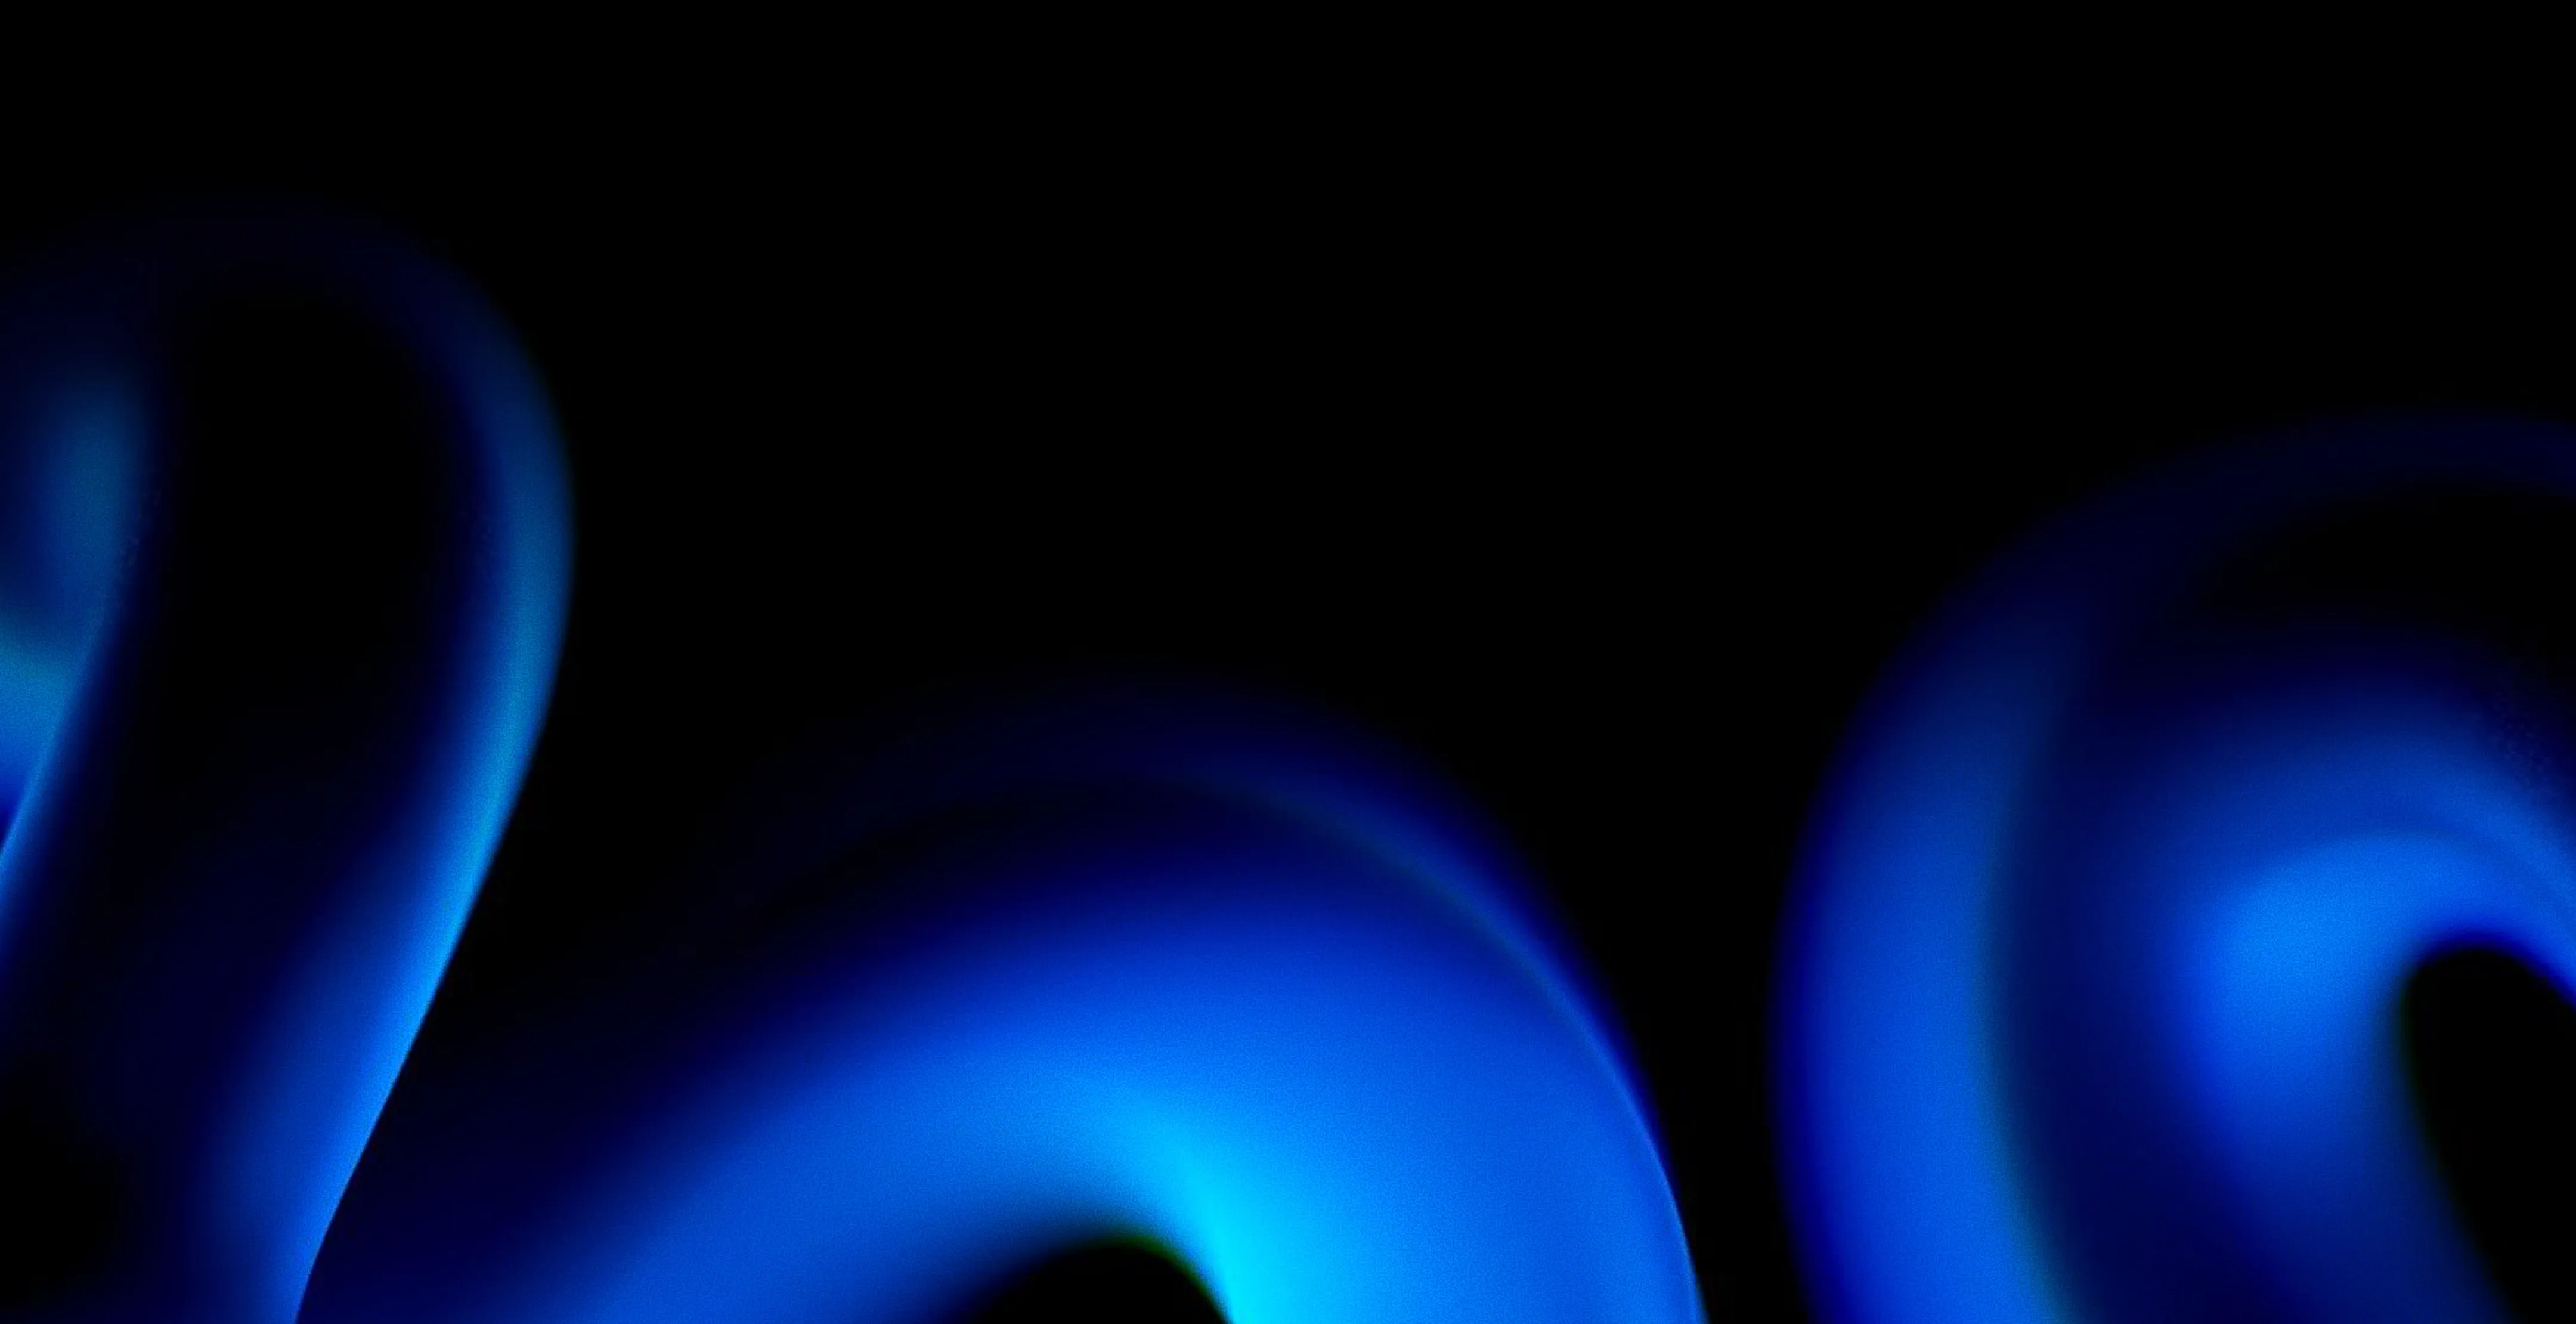
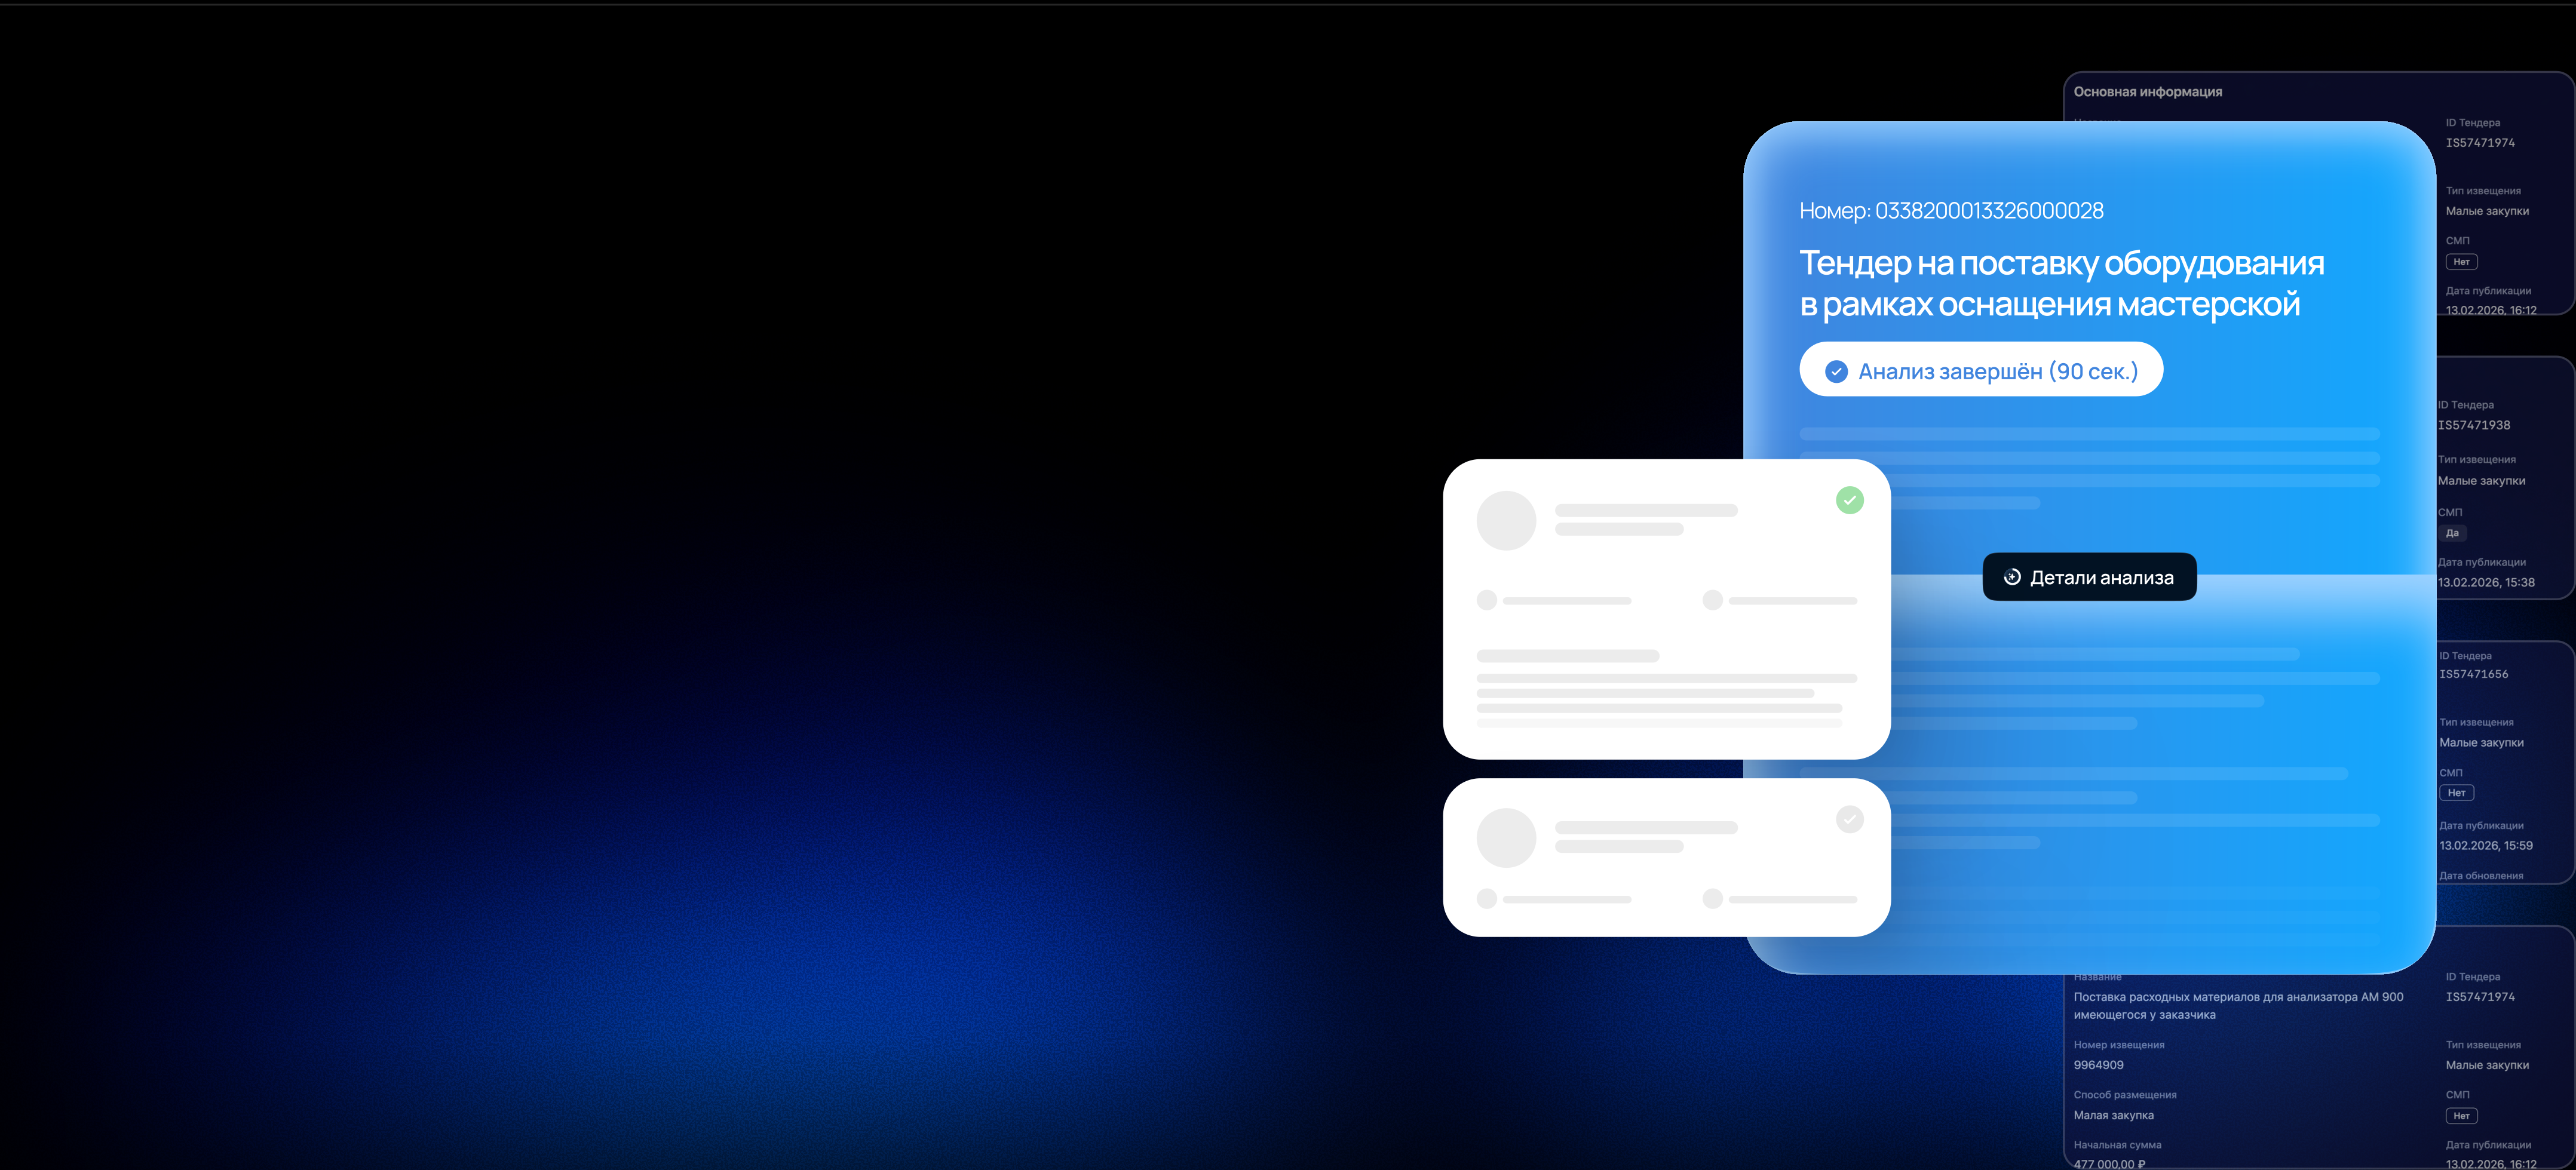
edit hero background for adaptive and add padding-bottom for last img in source__wrapp

diff --git a/style.css b/style.css
@@ -858,10 +858,6 @@ img {
 
 .page__hero {
   position: relative;
-  background-image: url(./img/hero-bg.webp);
-  background-repeat: no-repeat;
-  background-position: top center;
-  background-size: 100% 100%;
 }
 
 .page__hero::before {
@@ -1050,6 +1046,10 @@ section:first-child {
 }
 
 .hero__content {
+  background-image: url(./img/hero-bg.webp);
+  background-repeat: no-repeat;
+  background-position: top right;
+  background-size: auto 100%;
   position: relative;
   -ms-flex-pack: space-between;
   justify-content: space-between;
@@ -1219,6 +1219,10 @@ section:first-child {
 .source__item-content {
   flex-direction: column;
   gap: 20px;
+}
+
+.source__wrapp .source__item:nth-child(3) img {
+  padding-bottom: 20px;
 }
 
 .source__item.download {
@@ -3396,6 +3400,7 @@ section:first-child {
 }
 
 .btn {
+  image-rendering: pixelated;
   position: relative;
   text-decoration: none;
   display: -webkit-inline-box;
@@ -3756,6 +3761,10 @@ section:first-child {
     padding: 60px 0 0 0;
   }
 
+  .hero__content {
+    background-image: url(./img/hero-bg-tablet.webp);
+  }
+
   .hero__btn.btn {
     padding: 18px 62px;
   }
@@ -3865,6 +3874,10 @@ section:first-child {
   .source__wrapp .source__item:nth-child(2) img {
     align-self: flex-end;
     bottom: -40px;
+  }
+
+  .source__wrapp .source__item:nth-child(3) img {
+    padding-bottom: 0;
   }
 
   .source__item.step .source__name {
@@ -3998,7 +4011,7 @@ section:first-child {
   }
 
   .table__row:not(:last-child) {
-    border-bottom: 1px solid #171A2233;
+    border-bottom: 1px solid #171a2233;
   }
 
   .example__table,
@@ -4449,38 +4462,10 @@ section:first-child {
   }
 
   .page__hero {
-    background:
-      -o-radial-gradient(
-        circle farthest-corner at 21% 62%,
-        rgba(50, 73, 203, 1) 0%,
-        rgba(0, 0, 0, 0) 36%
-      ),
-      -o-radial-gradient(
-          circle farthest-corner at 68% 42%,
-          rgba(50, 73, 203, 1) 0%,
-          rgba(0, 0, 0, 0) 17.4%
-        ),
-      -o-radial-gradient(
-          circle farthest-corner at 68% 81%,
-          rgba(50, 73, 203, 1) 0%,
-          rgba(0, 0, 0, 0) 25.1%
-        );
-    background:
-      radial-gradient(
-        circle farthest-corner at 21% 62%,
-        rgba(50, 73, 203, 1) 0%,
-        rgba(0, 0, 0, 0) 36%
-      ),
-      radial-gradient(
-        circle farthest-corner at 68% 42%,
-        rgba(50, 73, 203, 1) 0%,
-        rgba(0, 0, 0, 0) 17.4%
-      ),
-      radial-gradient(
-        circle farthest-corner at 68% 81%,
-        rgba(50, 73, 203, 1) 0%,
-        rgba(0, 0, 0, 0) 25.1%
-      );
+    background-image: url(./img/hero-bg-mobile.webp);
+    background-position: bottom center;
+    background-size: 768px 910px;
+    background-repeat: no-repeat;
   }
 
   .page__hero::before {
@@ -4492,6 +4477,8 @@ section:first-child {
   }
 
   .hero__content {
+    background: none;
+    padding-bottom: 550px;
     -webkit-box-orient: vertical;
     -webkit-box-direction: normal;
     -ms-flex-direction: column;

diff --git a/index.html b/index.html
@@ -244,15 +244,6 @@
                   Проверить тендер
                 </a>
               </div>
-              <picture>
-                <source srcset="./img/hero.webp" type="image/webp" />
-                <img
-                  src="./img/hero.webp"
-                  alt
-                  class="hero__img"
-                  fetchpriority="high"
-                />
-              </picture>
             </div>
           </div>
         </section>